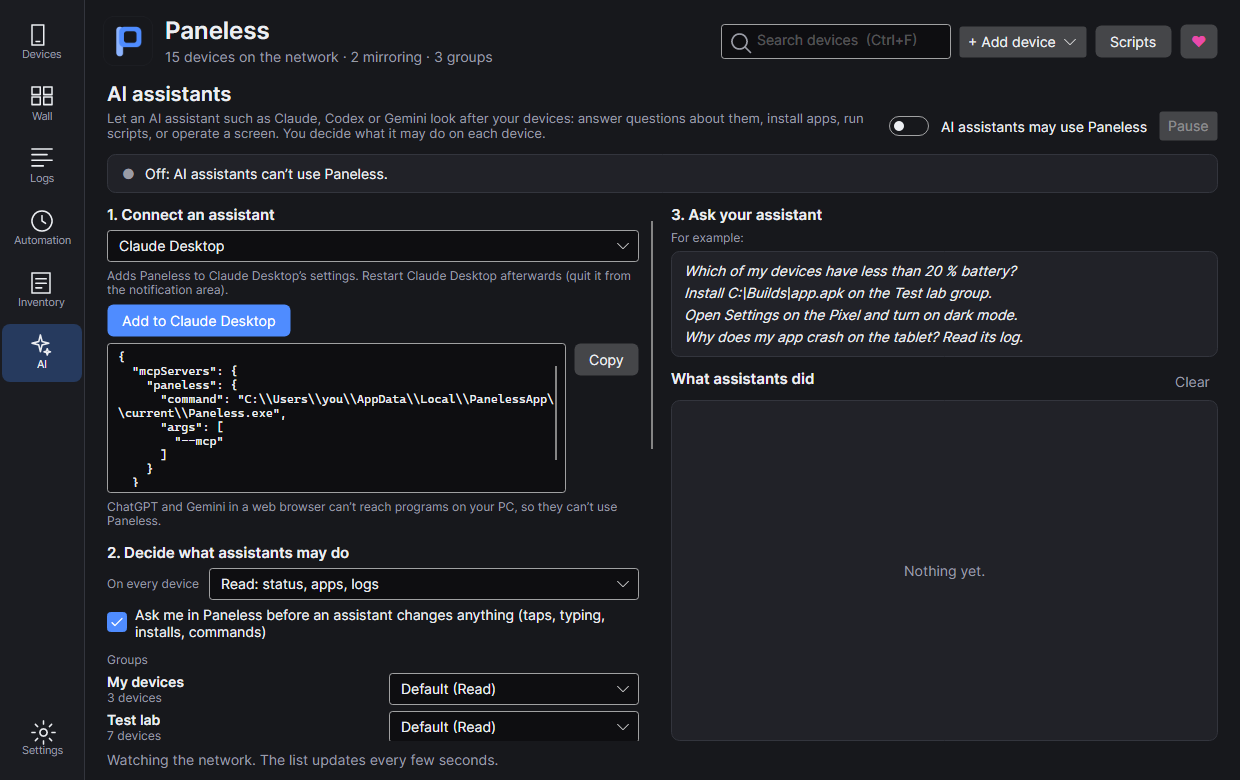
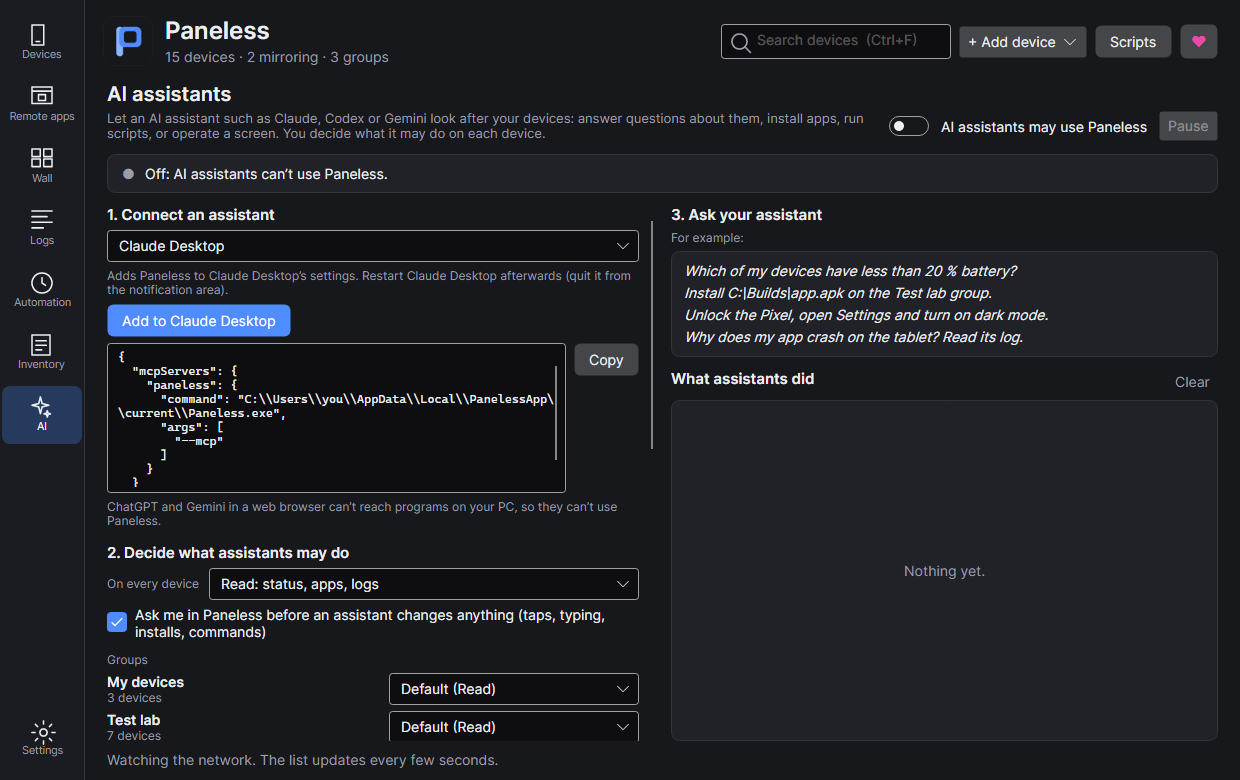
Improve MCP compliance, setup UX, and add Remote apps tools for AI assistants
- Fix 25 s McpBridge hang when Paneless is already running with AI access turned off (now returns the explanation after ~2.5 s)
- Emit standard MCP 2025 tool annotations (readOnlyHint, destructiveHint, idempotentHint, openWorldHint) on all tools to reduce double-prompts in Claude/Cursor/VS Code
- Add 1-click Cursor setup (~/.cursor/mcp.json), configured-state indicator, VS Code MCP: Add Server guidance, and Copy reminder when AI access is still off
- Add list_remote_apps (Read) and open_remote_app (Control) MCP tools
- Update README AI section (Cursor, VS Code tip, example prompts, collapsible manual stdio JSON, portable-zip note), refreshed ai.png, DE/FR translations (1026 keys), and --assistants smoke checks

diff --git a/src/Paneless.App/Assistants/AssistantTools.cs b/src/Paneless.App/Assistants/AssistantTools.cs
@@ -41,7 +41,8 @@ public sealed class AssistantTools
         "code saved in Paneless without revealing it) and lock_device when done. To operate a screen: take a screenshot, then tap " +
         "or swipe using the pixel coordinates of that screenshot. Never guess coordinates without a recent screenshot.";
 
-    sealed record Tool(string Name, string Description, AssistantAccess Level, JsonObject Schema, Func<JsonObject, Task<ToolResult>> Run, bool Changes = false);
+    sealed record Tool(string Name, string Description, AssistantAccess Level, JsonObject Schema, Func<JsonObject, Task<ToolResult>> Run,
+        bool Changes = false, bool Destructive = false, bool Idempotent = false);
 
     readonly AppServices _s;
     readonly MainViewModel _main;
@@ -69,6 +70,13 @@ public sealed class AssistantTools
         ["name"] = t.Name,
         ["description"] = t.Description + $" (Needs the device permission \"{t.Level}\" in Paneless.)",
         ["inputSchema"] = t.Schema.DeepClone(),
+        ["annotations"] = new JsonObject
+        {
+            ["readOnlyHint"] = !t.Changes,
+            ["destructiveHint"] = t.Changes && t.Destructive,
+            ["idempotentHint"] = !t.Changes || t.Idempotent,
+            ["openWorldHint"] = false,
+        },
     }).ToArray());
 
     /// <summary>The assistant whose call is running (for the confirmation and the activity list).</summary>
@@ -193,10 +201,11 @@ public sealed class AssistantTools
     static ToolResult Results(IReadOnlyList<DeviceActions.DeviceResult> results) =>
         ToolResult.Json(new JsonArray(results.Select(r => (JsonNode)new JsonObject { ["device"] = r.Device, ["ok"] = r.Ok, ["output"] = r.Detail }).ToArray()));
 
-    void Add(string name, string description, AssistantAccess level, JsonObject schema, Func<Tool, JsonObject, Task<ToolResult>> run, bool changes = false)
+    void Add(string name, string description, AssistantAccess level, JsonObject schema, Func<Tool, JsonObject, Task<ToolResult>> run,
+        bool changes = false, bool destructive = false, bool idempotent = false)
     {
         Tool? self = null;
-        self = new Tool(name, description, level, schema, a => run(self!, a), changes);
+        self = new Tool(name, description, level, schema, a => run(self!, a), changes, destructive, idempotent);
         _tools.Add(self);
     }
 
@@ -408,7 +417,7 @@ public sealed class AssistantTools
                 }
                 var res = await _s.Unlock.UnlockAsync(serial, r.Sn!, r.Name);
                 return ToolResult.Text(res.Message, !res.Ok);
-            }, changes: true);
+            }, changes: true, idempotent: true);
 
         Add("lock_device", "Turns the device's screen off and puts it to sleep (locks it).",
             AssistantAccess.Control, Schema(DeviceArg), async (t, a) =>
@@ -418,7 +427,37 @@ public sealed class AssistantTools
                 if (_s.Demo) return ToolResult.Text($"Demo mode: would lock {r.Name}.");
                 var res = await _s.Adb!.ShellAsync(await SerialOf(r), "input keyevent KEYCODE_SLEEP", TimeSpan.FromSeconds(5));
                 return res.Ok ? ToolResult.Text($"Locked {r.Name}.") : ToolResult.Text($"Couldn't lock {r.Name}: {res.LastLine}", true);
-            }, changes: true);
+            }, changes: true, idempotent: true);
+
+        Add("list_remote_apps", "Lists the user's configured Remote apps (Android apps set up to open in their own PC windows).",
+            AssistantAccess.Read, Schema(), (_, _) =>
+            {
+                var arr = new JsonArray();
+                foreach (var app in _s.RemoteApps.All.Where(a => AccessOf(a.DeviceId) != AssistantAccess.Off))
+                {
+                    arr.Add(new JsonObject
+                    {
+                        ["id"] = app.Id, ["name"] = app.Name, ["package"] = app.Package,
+                        ["device"] = _main.DeviceNameFor(app), ["device_id"] = app.DeviceId,
+                        ["shape"] = app.Shape, ["open"] = _s.Mirrors?.RemoteAppSession(app.Id) != null,
+                    });
+                }
+                return Task.FromResult(ToolResult.Json(arr));
+            });
+
+        Add("open_remote_app", "Opens one of the user's configured Remote apps (see list_remote_apps) in its own PC window.",
+            AssistantAccess.Control, Schema(("app", "string", "Remote app name or id (from list_remote_apps).", true)), async (t, a) =>
+            {
+                var q = Str(a, "app").Trim();
+                var visibleApps = _s.RemoteApps.All.Where(x => AccessOf(x.DeviceId) != AssistantAccess.Off).ToList();
+                var app = visibleApps.FirstOrDefault(x => x.Id == q || string.Equals(x.Name, q, StringComparison.OrdinalIgnoreCase))
+                          ?? visibleApps.FirstOrDefault(x => x.Name.Contains(q, StringComparison.OrdinalIgnoreCase))
+                          ?? throw new RefusedException($"No remote app \"{q}\" found. Use list_remote_apps.");
+                var r = _main.RowFor(app) ?? throw new RefusedException($"{_main.DeviceNameFor(app)} isn't connected.");
+                await Allow(t, [r], Localization.Loc.F("open remote app \"{0}\"", app.Name));
+                var why = await Avalonia.Threading.Dispatcher.UIThread.InvokeAsync(() => _main.OpenRemoteAppAsync(app));
+                return why == null ? ToolResult.Text($"Opened {app.Name} on {r.Name}.") : ToolResult.Text(why, true);
+            }, changes: true, idempotent: true);
 
         Add("install_app", "Installs (or updates) an APK file from the user's PC on a device or a whole group.",
             AssistantAccess.Manage, Schema(DeviceOpt, GroupOpt, ("apk_path", "string", "Full path of the .apk file on the PC.", true)), async (t, a) =>
@@ -432,7 +471,7 @@ public sealed class AssistantTools
                     var res = await _s.Adb!.InstallAsync(serial, path);
                     return new DeviceActions.DeviceResult(r.Name, res.Ok, res.LastLine);
                 }));
-            }, changes: true);
+            }, changes: true, idempotent: true);
 
         Add("uninstall_app", "Uninstalls an app (by package name) from a device or a whole group.",
             AssistantAccess.Manage, Schema(DeviceOpt, GroupOpt, ("package", "string", "Package name.", true)), async (t, a) =>
@@ -441,7 +480,7 @@ public sealed class AssistantTools
                 var rows = FindTargets(a);
                 await Allow(t, rows, Localization.Loc.F("uninstall {0}", pkg));
                 return Results(await _main.Actions.ShellAsync("pm uninstall --user 0 " + ScriptText.ShellQuote(pkg), rows));
-            }, changes: true);
+            }, changes: true, destructive: true);
 
         Add("copy_file", "Copies a file from the user's PC to a device or group (default folder: the device's drop folder, usually /sdcard/Download/).",
             AssistantAccess.Manage, Schema(DeviceOpt, GroupOpt, ("path", "string", "Full path of the file on the PC.", true), ("folder", "string", "Folder on the device.", false)), async (t, a) =>
@@ -455,7 +494,7 @@ public sealed class AssistantTools
                     var res = await _s.Adb!.PushAsync(serial, path, a["folder"]?.ToString() is { Length: > 0 } f ? f : _s.EffectiveFor(r.GroupId).PushTarget);
                     return new DeviceActions.DeviceResult(r.Name, res.Ok, res.LastLine);
                 }));
-            }, changes: true);
+            }, changes: true, idempotent: true);
 
         Add("run_command", "Runs a shell command on a device or group (like \"adb shell <command>\") and returns its output.",
             AssistantAccess.Manage, Schema(DeviceOpt, GroupOpt, ("command", "string", "The command, without \"adb shell\".", true)), async (t, a) =>
@@ -464,7 +503,7 @@ public sealed class AssistantTools
                 var rows = FindTargets(a);
                 await Allow(t, rows, Localization.Loc.F("run the command: {0}", cmd));
                 return Results(await _main.Actions.ShellAsync(cmd, rows));
-            }, changes: true);
+            }, changes: true, destructive: true);
 
         Add("list_scripts", "Lists the saved scripts (the user's and the built-in ones) with their descriptions and fields.",
             AssistantAccess.Read, Schema(), (_, _) => Task.FromResult(ToolResult.Json(new JsonArray(_s.AllScripts().Select(sc => (JsonNode)new JsonObject
@@ -483,7 +522,7 @@ public sealed class AssistantTools
                 var rows = FindTargets(a);
                 await Allow(t, rows, Localization.Loc.F("run the script \"{0}\"", script.Name));
                 return Results(await _main.Actions.RunScriptAsync(script, rows, values));
-            }, changes: true);
+            }, changes: true, destructive: true);
 
         Add("list_recipes", "Lists the provisioning recipes (sets of apps, files, scripts and commands).", AssistantAccess.Read, Schema(), (_, _) =>
             Task.FromResult(ToolResult.Json(new JsonArray(_s.Recipes.All.Select(r => (JsonNode)new JsonObject
@@ -499,7 +538,7 @@ public sealed class AssistantTools
                 var rows = FindTargets(a);
                 await Allow(t, rows, Localization.Loc.F("run the recipe \"{0}\"", recipe.Name));
                 return Results(await _main.Actions.RunRecipeAsync(recipe, rows));
-            }, changes: true);
+            }, changes: true, destructive: true);
 
         Add("reboot", "Restarts a device or every device of a group.",
             AssistantAccess.Manage, Schema(DeviceOpt, GroupOpt), async (t, a) =>
@@ -507,7 +546,7 @@ public sealed class AssistantTools
                 var rows = FindTargets(a);
                 await Allow(t, rows, Localization.Loc.T("restart the device"));
                 return Results(await _main.Actions.RebootAsync(rows));
-            }, changes: true);
+            }, changes: true, destructive: true);
     }
 
     /// <summary>Screenshot pixels to device pixels (the screen's current orientation).</summary>

diff --git a/src/Paneless.App/Assistants/AssistantApps.cs b/src/Paneless.App/Assistants/AssistantApps.cs
@@ -22,7 +22,7 @@ public static class AssistantApps
             Loc.T("Adds Paneless to Claude Desktop’s settings. Restart Claude Desktop afterwards (quit it from the notification area)."),
             true, Loc.T("Add to Claude Desktop"), JsonSettings),
         new("claude-code", "Claude Code",
-            Loc.T("Run this once in a terminal; Claude Code then has Paneless in every project."),
+            Loc.T("Run this once in a terminal; Claude Code then has Paneless in every project (run “claude mcp list” to verify)."),
             false, "", exe => $"claude mcp add {ServerName} --scope user -- \"{exe}\" --mcp"),
         new("codex", Loc.T("Codex (also in the ChatGPT desktop app)"),
             Loc.T("Adds Paneless to Codex’s settings, which the Codex CLI, its editor extension and Codex in the ChatGPT desktop app share. Or run this command once in a terminal."),
@@ -30,8 +30,11 @@ public static class AssistantApps
         new("gemini-cli", "Gemini CLI",
             Loc.T("Adds Paneless to Gemini CLI’s settings. Start a new Gemini CLI session afterwards; /mcp lists Paneless."),
             true, Loc.T("Add to Gemini CLI"), JsonSettings),
-        new("other", Loc.T("Other MCP apps (Cursor, VS Code, LM Studio, …)"),
-            Loc.T("Most apps that support MCP accept these settings: paste them into the app’s MCP settings. The program is Paneless.exe with --mcp."),
+        new("cursor", "Cursor",
+            Loc.T("Adds Paneless to Cursor’s global MCP settings (~/.cursor/mcp.json). Restart Cursor or reload MCP servers afterwards."),
+            true, Loc.T("Add to Cursor"), JsonSettings),
+        new("other", Loc.T("Other MCP apps (VS Code, LM Studio, …)"),
+            Loc.T("Most MCP apps accept these settings in their MCP config (command: Paneless.exe, args: [\"--mcp\"]). In VS Code, use Ctrl+Shift+P › “MCP: Add Server” instead of pasting into .vscode/mcp.json (which uses \"servers\" instead of \"mcpServers\")."),
             false, "", JsonSettings),
     ];
 
@@ -47,8 +50,25 @@ public static class AssistantApps
         "claude-desktop" => ClaudeDesktopConfigs(),
         "codex" => [Path.Combine(Environment.GetEnvironmentVariable("CODEX_HOME") is { Length: > 0 } ch ? ch : Path.Combine(Home, ".codex"), "config.toml")],
         "gemini-cli" => [Path.Combine(Home, ".gemini", "settings.json")],
+        "cursor" => [Path.Combine(Home, ".cursor", "mcp.json")],
         _ => [],
     };
+
+    /// <summary>True if Paneless is already registered in at least one of this app's config files.</summary>
+    public static bool IsConfigured(string appId)
+    {
+        foreach (var file in ConfigFiles(appId))
+        {
+            try
+            {
+                if (!File.Exists(file)) continue;
+                var text = File.ReadAllText(file);
+                if (appId == "codex" ? McpConfig.HasCodexServer(text) : McpConfig.HasJsonServer(text)) return true;
+            }
+            catch { }
+        }
+        return false;
+    }
 
     /// <summary>Claude Desktop: %APPDATA%\Claude, and the Store version's own copy of it.</summary>
     static List<string> ClaudeDesktopConfigs()

diff --git a/src/Paneless.App/ViewModels/AssistantsViewModel.cs b/src/Paneless.App/ViewModels/AssistantsViewModel.cs
@@ -196,19 +196,30 @@ public sealed partial class AssistantsViewModel : ObservableObject
     {
         Message = "";
         OnPropertyChanged(nameof(Snippet));
+        OnPropertyChanged(nameof(IsAppConfigured));
+        OnPropertyChanged(nameof(ConfiguredText));
     }
+
+    public bool IsAppConfigured => !_s.Demo && App.CanAdd && AssistantApps.IsConfigured(App.Id);
+    public string ConfiguredText => IsAppConfigured ? Loc.F("✓ Configured in {0}", App.Name) : "";
 
     /// <summary>The command or settings for the chosen app.</summary>
     public string Snippet => App.Snippet(Exe);
 
-    public string ExamplePrompts => Loc.T("Which of my devices have less than 20 % battery?\nInstall C:\\Builds\\app.apk on the Test lab group.\nOpen Settings on the Pixel and turn on dark mode.\nWhy does my app crash on the tablet? Read its log.");
+    public string ExamplePrompts => Loc.T("Which of my devices have less than 20 % battery?\nInstall C:\\Builds\\app.apk on the Test lab group.\nUnlock the Pixel, open Settings and turn on dark mode.\nWhy does my app crash on the tablet? Read its log.");
 
     [RelayCommand]
     async Task Copy()
     {
         if (CopyAsync != null) await CopyAsync(Snippet);
-        Message = Snippet.StartsWith('{') ? Loc.T("Copied. Paste it into the app’s MCP settings, then restart the app.")
-            : Loc.T("Copied. Run it once in a terminal.");
+        if (!Enabled)
+            Message = Snippet.StartsWith('{')
+                ? Loc.T("Copied. Turn on “AI assistants may use Paneless” above, then paste it into the app’s MCP settings and restart the app.")
+                : Loc.T("Copied. Turn on “AI assistants may use Paneless” above, then run it once in a terminal.");
+        else
+            Message = Snippet.StartsWith('{')
+                ? Loc.T("Copied. Paste it into the app’s MCP settings, then restart the app.")
+                : Loc.T("Copied. Run it once in a terminal.");
     }
 
     /// <summary>Adds Paneless to the chosen app's settings file (keeps everything else in it).</summary>
@@ -224,6 +235,8 @@ public sealed partial class AssistantsViewModel : ObservableObject
         try { await AssistantApps.AddAsync(App.Id, Exe); }
         catch (Exception ex) { Message = Loc.F("Couldn’t change the settings: {0}", ex.Message); return; }
         if (!Enabled) Enabled = true;
+        OnPropertyChanged(nameof(IsAppConfigured));
+        OnPropertyChanged(nameof(ConfiguredText));
         Message = Loc.F("Added. Restart {0}, then ask it about your devices.", App.Name);
     }
 

diff --git a/src/Paneless.App/Assistants/McpServer.cs b/src/Paneless.App/Assistants/McpServer.cs
@@ -173,20 +173,24 @@ public static class McpBridge
     static NamedPipeClientStream? Connect()
     {
         var started = false;
-        var until = DateTime.UtcNow + TimeSpan.FromSeconds(25);
+        // If Paneless is already running and the pipe isn't listening, AI access is almost certainly turned off:
+        // don't hang for 25 s (clients would time out before seeing our helpful error message).
+        var alreadyRunning = SingleInstance.IsRunning;
+        var until = DateTime.UtcNow + TimeSpan.FromSeconds(alreadyRunning ? 2.5 : 25);
         while (DateTime.UtcNow < until)
         {
             var pipe = new NamedPipeClientStream(".", McpServer.PipeName, PipeDirection.InOut, PipeOptions.Asynchronous | PipeOptions.CurrentUserOnly);
-            try { pipe.Connect(800); return pipe; }
+            try { pipe.Connect(600); return pipe; }
             catch { pipe.Dispose(); }
             if (!started && !SingleInstance.IsRunning)
             {
                 // Paneless isn't open: start it quietly in the notification area.
                 started = true;
+                until = DateTime.UtcNow + TimeSpan.FromSeconds(25);
                 try { System.Diagnostics.Process.Start(new System.Diagnostics.ProcessStartInfo(Environment.ProcessPath!, "--tray") { UseShellExecute = false }); }
                 catch { return null; }
             }
-            Thread.Sleep(500);
+            Thread.Sleep(400);
         }
         return null;
     }

diff --git a/src/Paneless.Core/McpConfig.cs b/src/Paneless.Core/McpConfig.cs
@@ -29,6 +29,23 @@ public static class McpConfig
         return root.ToJsonString(Indented);
     }
 
+    /// <summary>True if a JSON settings file already has a "paneless" entry under "mcpServers".</summary>
+    public static bool HasJsonServer(string json)
+    {
+        if (string.IsNullOrWhiteSpace(json)) return false;
+        try
+        {
+            var root = JsonNode.Parse(json, documentOptions: new JsonDocumentOptions { CommentHandling = JsonCommentHandling.Skip, AllowTrailingCommas = true }) as JsonObject;
+            return root?["mcpServers"] is JsonObject servers && servers[ServerName] != null;
+        }
+        catch { return false; }
+    }
+
+    /// <summary>True if a Codex config.toml already has a [mcp_servers.paneless] table.</summary>
+    public static bool HasCodexServer(string toml) =>
+        !string.IsNullOrWhiteSpace(toml) && toml.Replace("\r\n", "\n").Split('\n')
+            .Any(l => l.Trim() == $"[mcp_servers.{ServerName}]");
+
     /// <summary>Codex's config.toml: drops any [mcp_servers.paneless] table (and its sub-tables) and appends a fresh one.
     /// Everything else stays as it was.</summary>
     public static string WithCodexServer(string toml, string exe)

diff --git a/tests/Paneless.Smoke/Program.cs b/tests/Paneless.Smoke/Program.cs
@@ -432,6 +432,8 @@ if (args.Contains("--assistants"))
     Check(toml.Contains($"command = '{exe}'") && toml.Contains("args = [\"--mcp\"]") && toml.Split("[mcp_servers.paneless]").Length == 2, "Codex TOML: one entry, path needs no escaping");
     Check(McpConfig.WithCodexServer(toml, exe) == toml, "Codex TOML: adding twice changes nothing");
     Check(McpConfig.WithCodexServer("", @"C:\it's\Paneless.exe").Contains("command = \"C:\\\\it's\\\\Paneless.exe\""), "Codex TOML: a path with ' is escaped");
+    Check(!McpConfig.HasJsonServer("{}") && McpConfig.HasJsonServer(McpConfig.WithJsonServer("{}", exe)), "HasJsonServer detects paneless entry");
+    Check(!McpConfig.HasCodexServer("") && McpConfig.HasCodexServer(toml), "HasCodexServer detects paneless table");
 
     Check(McpConfig.Friendly("claude-ai", null) == "Claude" && McpConfig.Friendly("claude-code", null) == "Claude Code"
           && McpConfig.Friendly("codex-mcp-client", null) == "Codex" && McpConfig.Friendly("gemini-cli-mcp-client", null) == "Gemini"

diff --git a/README.md b/README.md
@@ -228,26 +228,50 @@ Works with:
 | App | How to connect |
 |---|---|
 | [Claude Desktop](https://claude.ai/download) | **Add to Claude Desktop**, then restart it |
-| [Claude Code](https://claude.com/claude-code) | run the command shown once in a terminal |
+| [Claude Code](https://claude.com/claude-code) | run the command shown once in a terminal (`claude mcp list` verifies) |
 | [Codex](https://developers.openai.com/codex) (CLI, editor extension, Codex in the ChatGPT desktop app) | **Add to Codex**, or run the command shown |
-| [Gemini CLI](https://github.com/google-gemini/gemini-cli) | **Add to Gemini CLI**, then start a new session |
-| Other MCP apps (Cursor, VS Code, LM Studio, …) | copy the settings shown into the app's MCP settings |
+| [Gemini CLI](https://github.com/google-gemini/gemini-cli) | **Add to Gemini CLI**, then start a new session (`/mcp` lists Paneless) |
+| [Cursor](https://cursor.com) | **Add to Cursor** (writes `~/.cursor/mcp.json`), then reload MCP servers |
+| Other MCP apps (VS Code, LM Studio, …) | copy the settings shown (in VS Code, use `Ctrl+Shift+P` › **MCP: Add Server**) |
 
 ChatGPT and Gemini in a web browser can't reach programs on your PC, so they can't use Paneless.
 
 1. In Paneless, open the **AI** page and switch on **AI assistants may use Paneless**.
-2. Pick your app under **Connect an assistant** and follow the step shown.
+2. Pick your app under **Connect an assistant** and follow the step shown. *(If you use the portable zip, keep the folder in one place—its path is saved in your AI app's config.)*
 3. Decide what assistants may do, for all devices or per group and device:
 
 | Level | Assistants may… |
 |---|---|
 | Nothing | not see the device at all |
-| Read | see status, battery, apps and the log |
+| Read | see status, battery, apps, remote apps and the log |
 | See | also take screenshots |
-| Control | also tap, swipe, type, open apps, and unlock/lock using your saved code (never revealed to the assistant) |
+| Control | also tap, swipe, type, open apps / remote apps, and unlock/lock using your saved code (never revealed to the assistant) |
 | Manage | also install and remove apps, copy files, run scripts, recipes and commands, restart |
 
-By default assistants may only **read**, and Paneless asks you before one changes anything, naming the app that asks (*Allow once*, *Allow for 15 minutes* or *Don't allow*). **Pause** refuses everything until you resume, and the page lists what each assistant did. Paneless never gives an assistant your unlock codes.
+By default assistants may only **read**, and Paneless asks you before one changes anything, naming the app that asks (*Allow once*, *Allow for 15 minutes* or *Don't allow*). **Pause** refuses everything until you resume, and the page lists what each assistant did. Paneless never gives an assistant your unlock codes, and marks every tool with standard MCP `readOnlyHint` / `destructiveHint` annotations.
+
+**What you can ask:**
+- *"Which of my devices have less than 20 % battery?"*
+- *"Unlock the Pixel, open Settings and turn on dark mode, then lock it again."*
+- *"Install `C:\Builds\app.apk` on the Test lab group."*
+- *"Why does my app crash on the tablet? Read its log."*
+
+<details>
+<summary><b>Manual MCP configuration (stdio)</b></summary>
+
+Paneless runs as a standard local `stdio` MCP server (`Paneless.exe --mcp`). Most MCP clients accept:
+
+```json
+{
+  "mcpServers": {
+    "paneless": {
+      "command": "C:\\Users\\<you>\\AppData\\Local\\PanelessApp\\current\\Paneless.exe",
+      "args": ["--mcp"]
+    }
+  }
+}
+```
+</details>
 
 <p align="center"><img src="docs/images/ai.png" width="760" alt="AI assistants page"></p>
 
